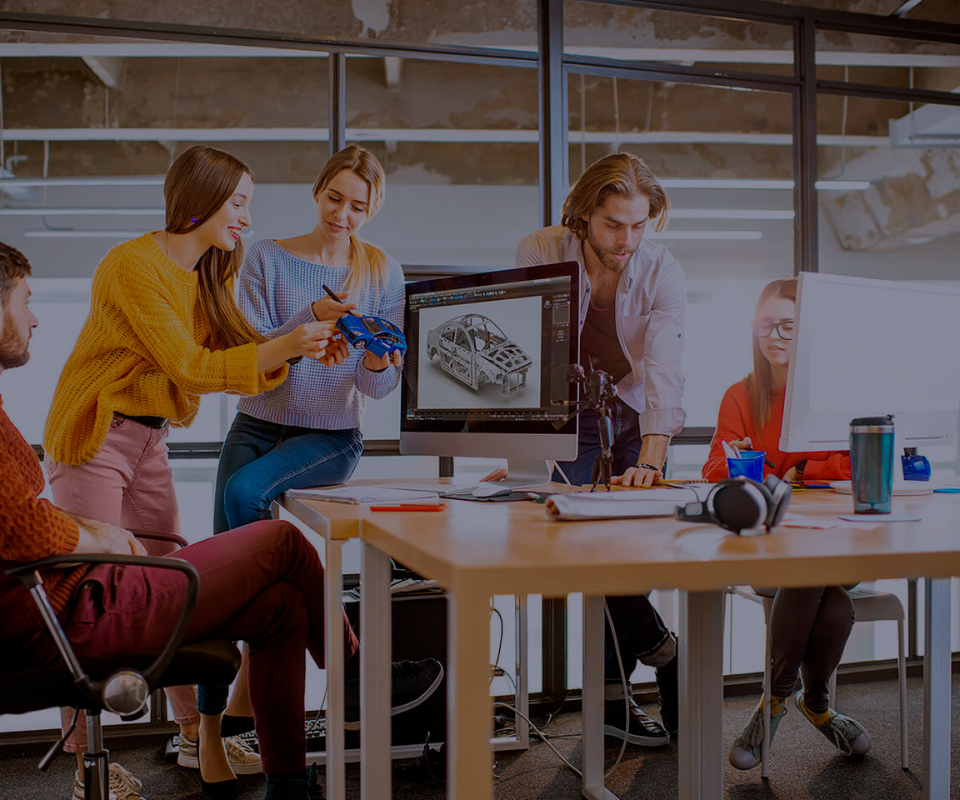
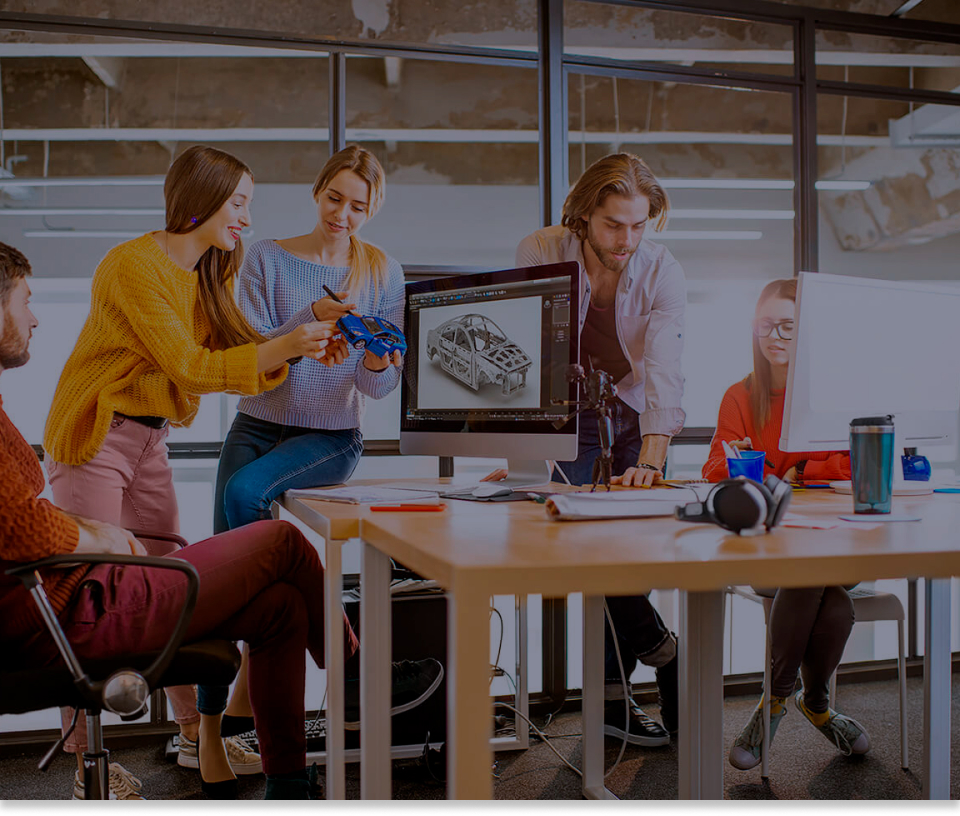
5

diff --git a/sass/components/layouts/_hero.scss b/sass/components/layouts/_hero.scss
@@ -18,12 +18,12 @@
         
         background-image: linear-gradient(rgba(47, 48, 58, 0.4), rgba(47, 48, 58, 0.4)
         ), 
-        url(../images/hero-bg-mob.jpg);
+        url(../images/hero-bg-mob-2x.jpg);
         
         @media screen and (min-width: 1200px) {
             background-image: linear-gradient(rgba(47, 48, 58, 0.4), rgba(47, 48, 58, 0.4)
             ), 
-            url(../images/hero-desc-2x.jpg);
+            url(../images/herodesc.jpg);
             padding: 200px 0;
 max-width: 1600px;}
         

diff --git a/sass/components/_titles.scss b/sass/components/_titles.scss
@@ -31,8 +31,7 @@ margin-bottom: 4px;
     text-align: center;
     margin-bottom: 30px;
     @media screen and (min-width: 1200px) {
-        font-style: 44px;
-        line-height: calc(60 / 44);
+        @include font(900, 44px, calc(60 / 44), 0.06em);
     }
 }
 .section-title-text

diff --git a/sass/components/_modal.scss b/sass/components/_modal.scss
@@ -17,7 +17,7 @@
 .modal 
 {
 	width: 95vw;
-	height: 76vh;
+	height: 100%;
 padding: 40px;
 @include mobile {
     width: 450px;
